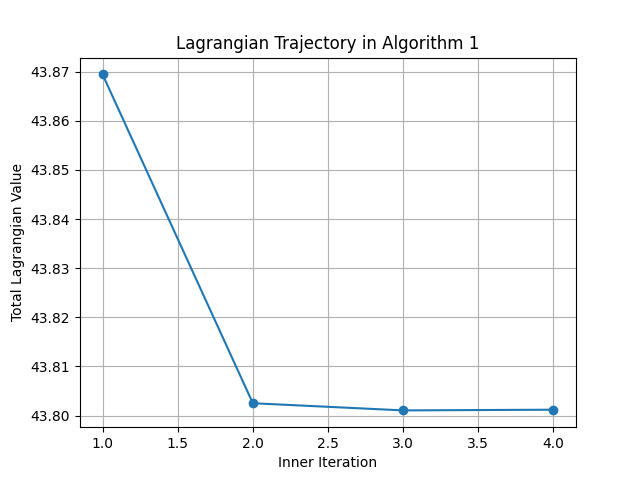
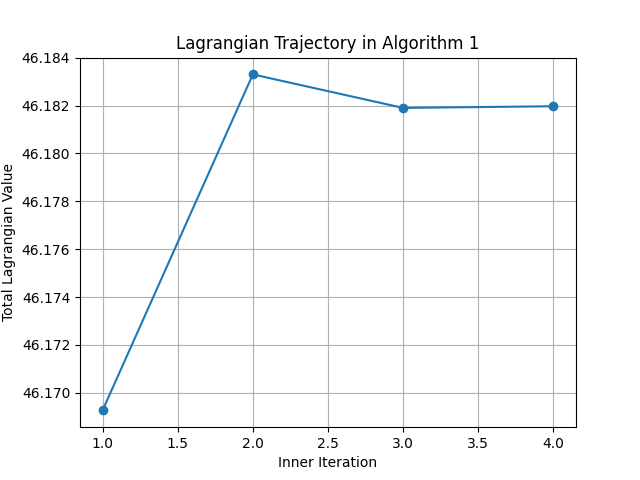
algoB done, B constraint tbd

diff --git a/variables.py b/variables.py
@@ -108,7 +108,7 @@
 #     return B
 import numpy as np
 from update_functions import compute_g1_k
-
+from scipy.stats import chi2
 class GlobalConstants:
     def __init__(self, snr_db=10, snrest_db=11, Nt=4, Nr=4, K=4, Pt=16):
         self.NT = Nt
@@ -121,6 +121,7 @@ class GlobalConstants:
 
         self.SNREST_DB = snrest_db
         self.SIGMAEST = (10 ** (-snrest_db / 20))
+        r2 = chi2.ppf(0.9, df=Nt*Nr*2)
 
         # Generate K channel realizations
         self.H_HAT = []
@@ -130,8 +131,10 @@ class GlobalConstants:
             self.H_HAT.append(h_real + 1j * h_imag)
         self.H_HAT = np.array(self.H_HAT)  # shape (K, Nr, Nt)
 
-        # Generate B matrix (identity scaled by sigma estimate)
-        self.B = np.eye(Nt * Nr) / self.SIGMAEST**2
+        # self.B = np.eye(Nt * Nr) * (1 + 1 / self.SIGMAEST**2) / r2
+        self.B = np.eye(Nt * Nr)  / (self.SIGMAEST**2) 
+        # self.B = np.eye(Nt * Nr) * (1 + self.SNREST_DB) / (r2)
+
 
 class VariablesA:
     def __init__(self, constants: GlobalConstants):

diff --git a/test_update_B_loop.py b/test_update_B_loop.py
@@ -3,7 +3,7 @@ from update_functions import update_A_loop, update_B_loop
 
 def test_update_B_loop():
     # === Setup constants and variables
-    constants = GlobalConstants(snr_db=10, snrest_db=11, Nt=16, Nr=8, K=8, Pt=100)
+    constants = GlobalConstants(snr_db=10, snrest_db=1, Nt=16, Nr=8, K=8, Pt=100)
     A = VariablesA(constants)
     B = VariablesB(constants)
 
